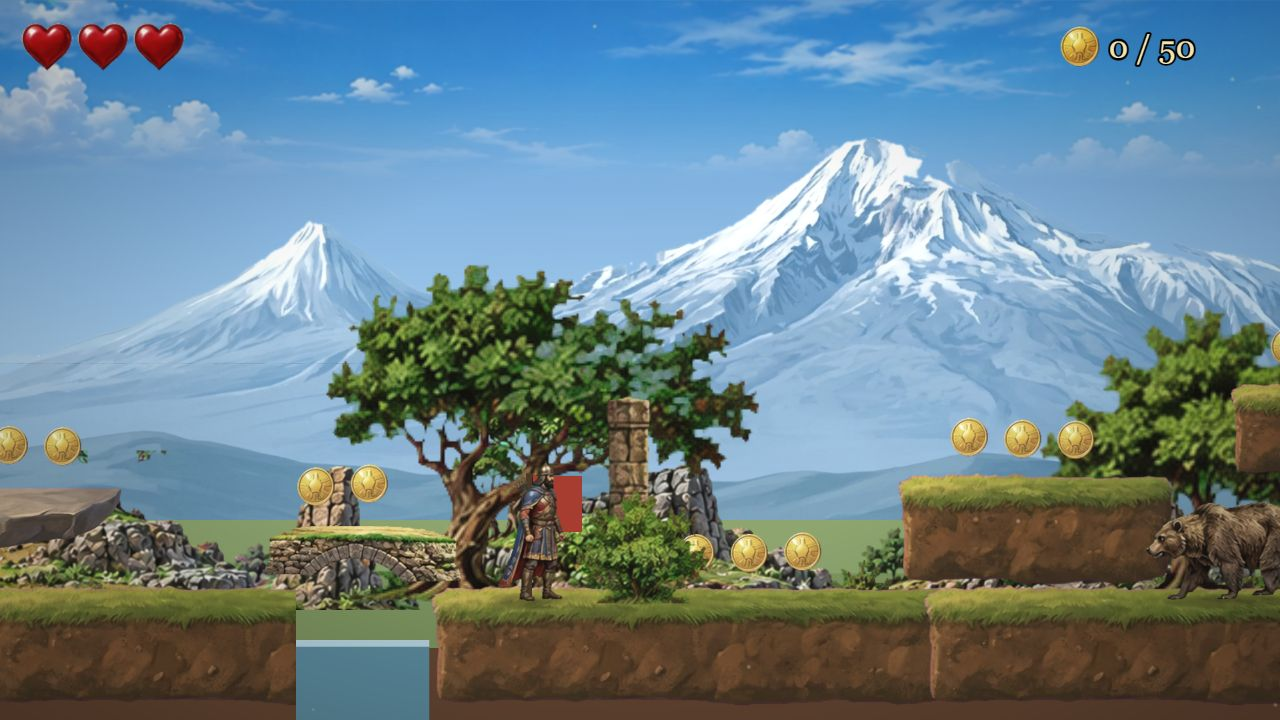
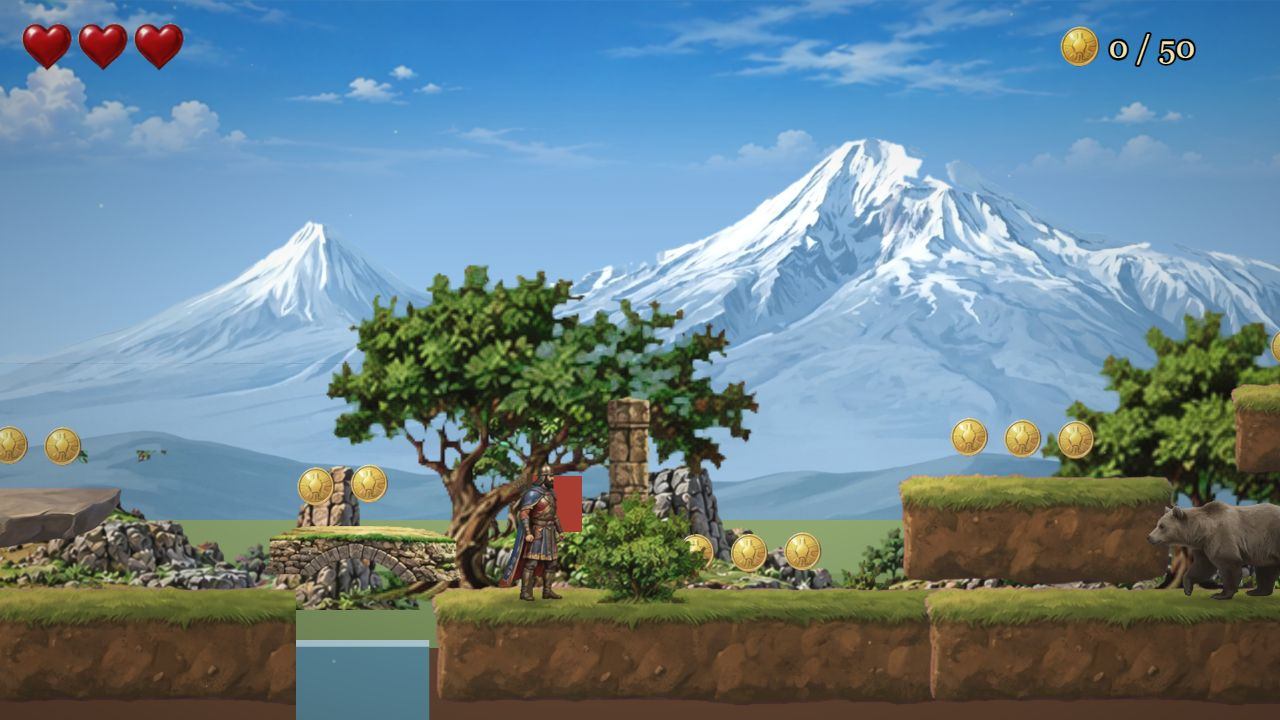
Анимации волка, медведя и оленя из листов; вырезание фона сравнивает оттенок, а не только яркость

Changed region(s): [[0.875, 0.6722, 1.0, 0.8556]]

diff --git a/src/sprites.js b/src/sprites.js
@@ -8,12 +8,25 @@
 // rows   — сколько рядов фигур на листе (кадры нумеруются слева направо, ряд за рядом, с нуля)
 // frames — сколько фигур на листе
 // faces  — куда смотрит персонаж на листе (1 — вправо, -1 — влево)
-// tol    — насколько цвет может отличаться от фона, чтобы считаться фоном (больше — вырезает смелее)
+// tol    — насколько цвет может отличаться от фона, чтобы считаться фоном (больше — вырезает смелее;
+//          если в фигуре появляются дыры — уменьшить, если вокруг остаётся кайма фона — увеличить)
 // anims  — анимации: имя → { frames: номера кадров, fps: скорость }
 export const SHEETS = {
   'spearman-walk': {
-    file: 'enemies/spearman-walk.webp', rows: 2, frames: 8, faces: 1, tol: 120,
+    file: 'enemies/spearman-walk.webp', rows: 2, frames: 8, faces: 1, tol: 150,
     anims: { 'spearman-walk': { frames: [0, 1, 2, 3, 4, 5, 6, 7], fps: 10 } },
+  },
+  'wolf-run': {
+    file: 'enemies/wolf-run.webp', rows: 4, frames: 12, faces: 1, tol: 24,
+    anims: { 'wolf-run': { frames: [0, 1, 2, 3, 4, 5, 6, 7, 8, 9, 10, 11], fps: 12 } },
+  },
+  'bear-walk': {
+    file: 'enemies/bear-walk.webp', rows: 4, frames: 8, faces: 1, tol: 30,
+    anims: { 'bear-walk': { frames: [0, 1, 2, 3, 4, 5, 6, 7], fps: 7 } },
+  },
+  'deer-run': {
+    file: 'enemies/deer-run.webp', rows: 3, frames: 7, faces: 1, tol: 30,
+    anims: { 'deer-run': { frames: [0, 1, 2, 3, 4, 5, 6], fps: 8 } },
   },
   'bel-sheet': {
     file: 'enemies/bel-sheet.webp', rows: 2, frames: 6, faces: 1, tol: 34,
@@ -86,15 +99,20 @@ function cutFrames(img, s) {
 
   // расстояние каждого пикселя до цвета фона
   const T = s.tol ?? 40;
-  const T2 = T * 1.45;
+  const T2 = T;
   const dist = new Float32Array(n);
   const isBg = new Uint8Array(n);
   for (let p = 0; p < n; p++) {
     const i = p * 4;
     const dr = d[i] - br, dg = d[i + 1] - bg, db = d[i + 2] - bb;
-    const v = Math.sqrt(dr * dr + dg * dg + db * db);
+    // отличие по оттенку важнее отличия по яркости: серый волк на серо-сиреневом фоне отличается именно оттенком
+    const dl = ((dr + dg + db) / 3) * 0.6;
+    const c1 = dr - db;
+    const c2 = dg - (dr + db) / 2;
+    const v = Math.sqrt(dl * dl + c1 * c1 + c2 * c2);
     dist[p] = v;
-    if (v < T) isBg[p] = 1;
+    // внутри фигуры (в «карманах» между рукой и телом) убираем только почти точный цвет фона
+    if (v < T * 0.4) isBg[p] = 1;
   }
   // от краёв картинки фон «заливается» смелее: так убираются полутона на границе фигур,
   // но похожие на фон места внутри фигуры (например, блик на мече) остаются
@@ -186,7 +204,7 @@ function cutFrames(img, s) {
         let a = 1;
         // пиксель на самой границе с фоном делаем полупрозрачным и убираем с него цвет фона
         const edge = (x > 0 && isBg[p - 1]) || (x < w - 1 && isBg[p + 1]) || (y > 0 && isBg[p - w]) || (y < h - 1 && isBg[p + w]);
-        if (edge) a = Math.min(1, Math.max(0.3, (dist[p] - T) / (T * 0.8) + 0.3));
+        if (edge) a = Math.min(1, Math.max(0.35, (dist[p] - T) / T + 0.35));
         const k = (1 - a) * 0.7;
         o[j] = Math.max(0, Math.min(255, d[i] + (d[i] - br) * k));
         o[j + 1] = Math.max(0, Math.min(255, d[i + 1] + (d[i + 1] - bg) * k));

diff --git a/src/entities/Enemy.js b/src/entities/Enemy.js
@@ -2,15 +2,16 @@ import Phaser from 'phaser';
 import { ENEMY } from '../config.js';
 import { SHEET_INFO } from '../sprites.js';
 
+// sheet — лист анимации из src/sprites.js (если он есть, берётся вместо картинки); sw/sh — хитбокс в долях роста фигуры на листе.
 // Описание картинок: faces — куда смотрит исходная картинка, cx — где центр тела по ширине (доля),
 // bw/bh — размер хитбокса в долях картинки.
 const LOOK = {
-  spearman: { tex: 'spearman', faces: -1, cx: 0.68, bw: 0.34, bh: 0.86, sheet: 'spearman-walk' },
+  spearman: { tex: 'spearman', faces: -1, cx: 0.68, bw: 0.34, bh: 0.86, sheet: 'spearman-walk', sw: 0.3, sh: 0.86 },
   archer: { tex: 'spearman', faces: -1, cx: 0.68, bw: 0.34, bh: 0.86, tint: 0x8ea4d6 },
-  wolf: { tex: 'wolf-1', faces: 1, cx: 0.5, bw: 0.62, bh: 0.9 },
+  wolf: { tex: 'wolf-1', faces: 1, cx: 0.5, bw: 0.62, bh: 0.9, sheet: 'wolf-run', sw: 1.0, sh: 0.8 },
   boar: { tex: 'boar', faces: 1, cx: 0.5, bw: 0.66, bh: 0.9 },
-  bear: { tex: 'bear', faces: 1, cx: 0.5, bw: 0.66, bh: 0.8 },
-  deer: { tex: 'deer', faces: 1, cx: 0.5, bw: 0.5, bh: 0.6 },
+  bear: { tex: 'bear', faces: 1, cx: 0.5, bw: 0.66, bh: 0.8, sheet: 'bear-walk', sw: 1.0, sh: 0.85 },
+  deer: { tex: 'deer', faces: 1, cx: 0.5, bw: 0.5, bh: 0.6, sheet: 'deer-run', sw: 0.6, sh: 0.55, stand: 2 },
 };
 
 export default class Enemy extends Phaser.Physics.Arcade.Sprite {
@@ -27,7 +28,7 @@ export default class Enemy extends Phaser.Physics.Arcade.Sprite {
     this.cfg = ENEMY[d.type];
     // размеры тела в пикселях кадра: ширина, высота, центр по ширине, линия ног, рост фигуры
     this.geom = info
-      ? { w: info.figH * 0.3, h: info.figH * 0.86, cx: info.cx, bottom: info.baseline, figH: info.figH, faces: info.faces }
+      ? { w: info.figH * look.sw, h: info.figH * look.sh, cx: info.cx, bottom: info.baseline, figH: info.figH, faces: info.faces }
       : { w: this.width * look.bw, h: this.height * look.bh, cx: this.width * look.cx, bottom: this.height, figH: this.height, faces: look.faces };
     this.setOrigin(info ? info.cx / info.W : 0.5, this.geom.bottom / this.height).setScale(this.cfg.height / this.geom.figH).setDepth(45);
     this.baseTint = d.tint ?? look.tint ?? 0xffffff;
@@ -192,7 +193,7 @@ export default class Enemy extends Phaser.Physics.Arcade.Sprite {
         this.anims.timeScale = Math.min(2.2, 0.6 + Math.abs(this.body.velocity.x) / 250);
       } else if (this.anims.isPlaying) {
         this.anims.stop();
-        this.setFrame(0);
+        this.setFrame(this.look.stand ?? 0);
       }
     }
     const bob = this.info ? 0 : moving ? Math.sin(time * 0.016 + this.seed) * 3 : Math.sin(time * 0.003 + this.seed) * 0.8;

diff --git a/src/config.js b/src/config.js
@@ -59,7 +59,7 @@ export const ENEMY = {
   wolf: { hp: 1, speed: 170, chaseSpeed: 400, height: 125, sight: 620 },
   boar: { hp: 2, speed: 100, height: 115, sight: 700, windupMs: 550, chargeSpeed: 720, chargeMs: 1300, restMs: 1000 },
   bear: { hp: 5, speed: 105, chaseSpeed: 150, height: 150, sight: 500 },
-  deer: { speed: 460, height: 150, sight: 430 },
+  deer: { speed: 460, height: 215, sight: 430 }, // рост вместе с рогами
 };
 
 export const BOSS = {

diff --git a/CLAUDE.md b/CLAUDE.md
@@ -133,6 +133,7 @@
 - `public/assets/hayots-dzor/platforms/platform-01…12.png` — платформы уровня 4: скальные уступы, плиты, два деревянных помоста; сломанная повозка среди них — декорация, не платформа
 - `public/assets/enemies/spearman.png` (423×936) — копейщик Бела, смотрит влево. В игре высота около 205 px
 - `public/assets/enemies/spearman-walk.webp` (1024×572) — лист бега копейщика: 8 кадров сеткой 4×2 на пурпурном фоне, смотрит вправо. Фон вырезается, фигуры находятся и выравниваются кодом при запуске (`src/sprites.js`; подходит любой ровный одноцветный фон, сетка не нужна); новые листы добавлять туда же, в `SHEETS`. Копейщик в игре берётся из этого листа, лучник пока остаётся на старой картинке `spearman.png`
+- `public/assets/enemies/wolf-run.webp` (12 кадров бега), `bear-walk.webp` (8 кадров шага), `deer-run.webp` (7 кадров бега) — листы зверей 1024×1024 на серо-сиреневом фоне, смотрят вправо; подключены в `src/sprites.js`. `bear-run.webp` (8 кадров бега медведя) лежит про запас и пока не используется. У кабана листа ещё нет — он остаётся одной картинкой
 - `public/assets/enemies/bel-sheet.webp` (1024×1024) — лист Бела: 6 фигур в 2 ряда на сиреневом фоне, смотрит вправо. Кадры 0, 1, 4, 5 — шаг, 2 — замах, 3 — удар мечом. Бел в игре берётся из этого листа (`bel.png` остаётся запасным). Кадров удара по земле и падения пока нет
 - `public/assets/enemies/bel.png` (801×947) — Бел, смотрит влево. В игре высота около 300 px (заметно крупнее Айка)
 Чего ещё нет — см. `docs/missing-assets.md`
